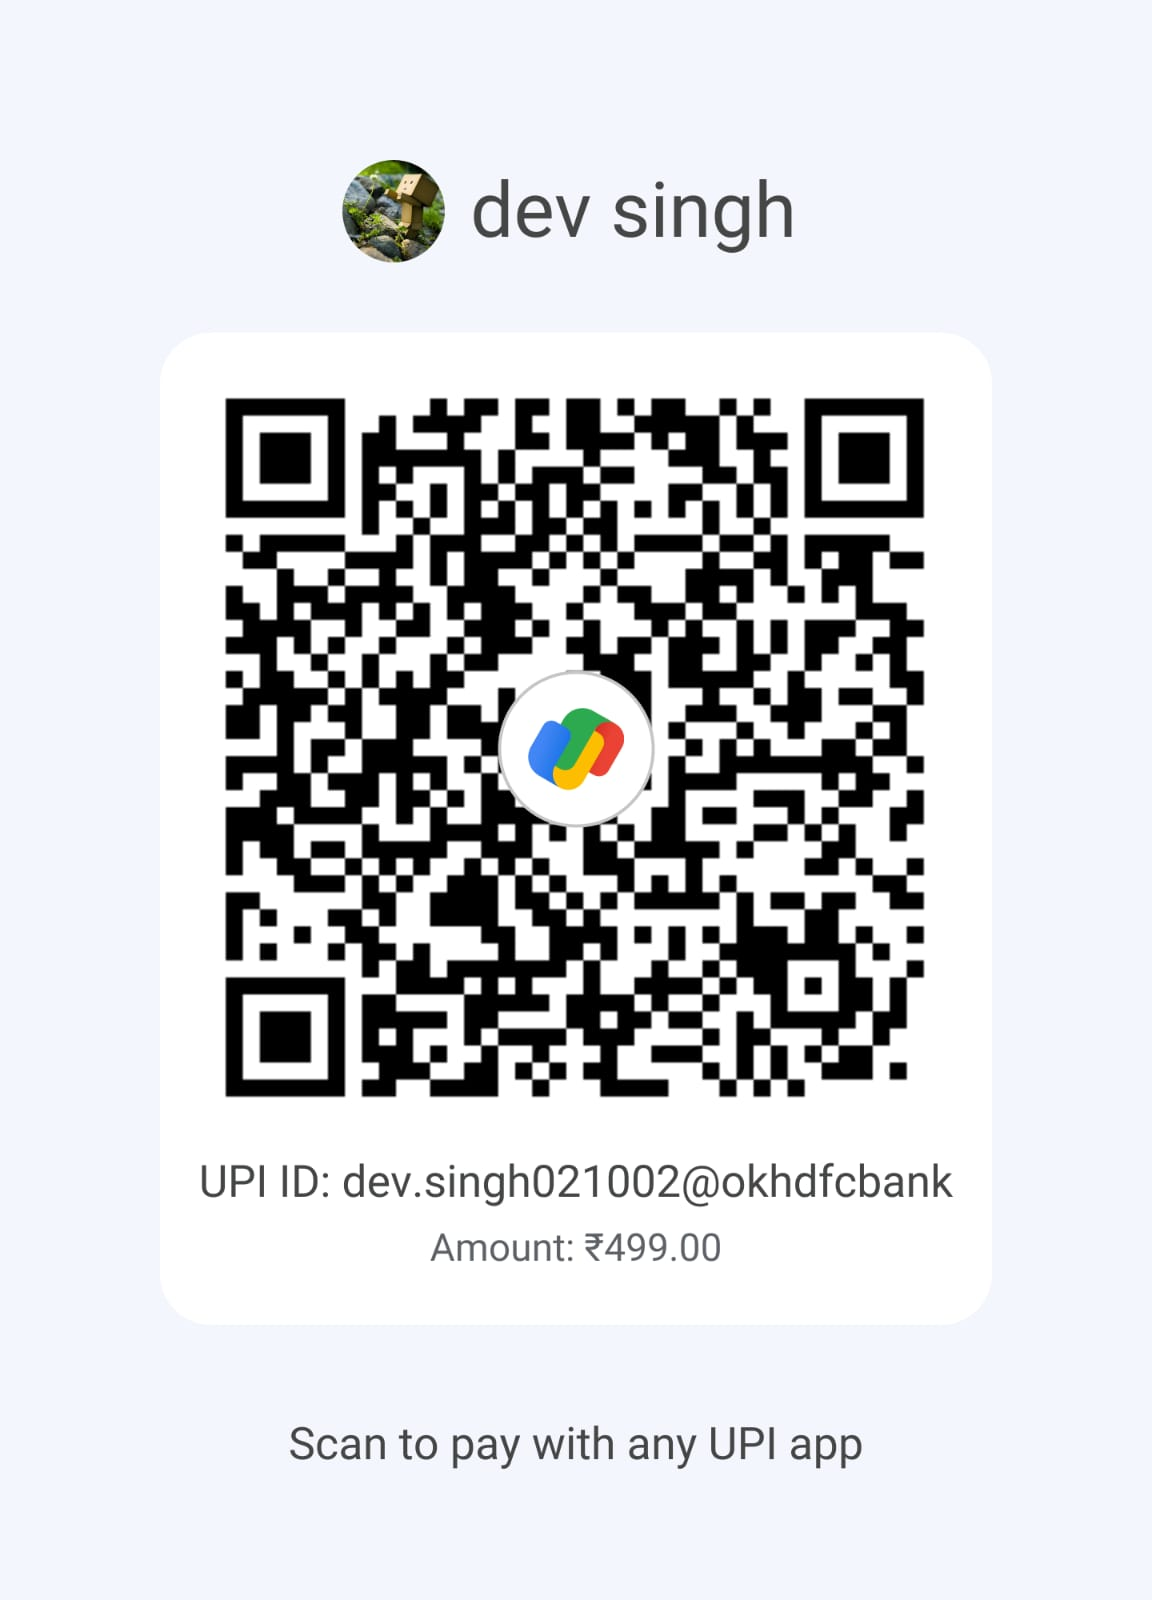
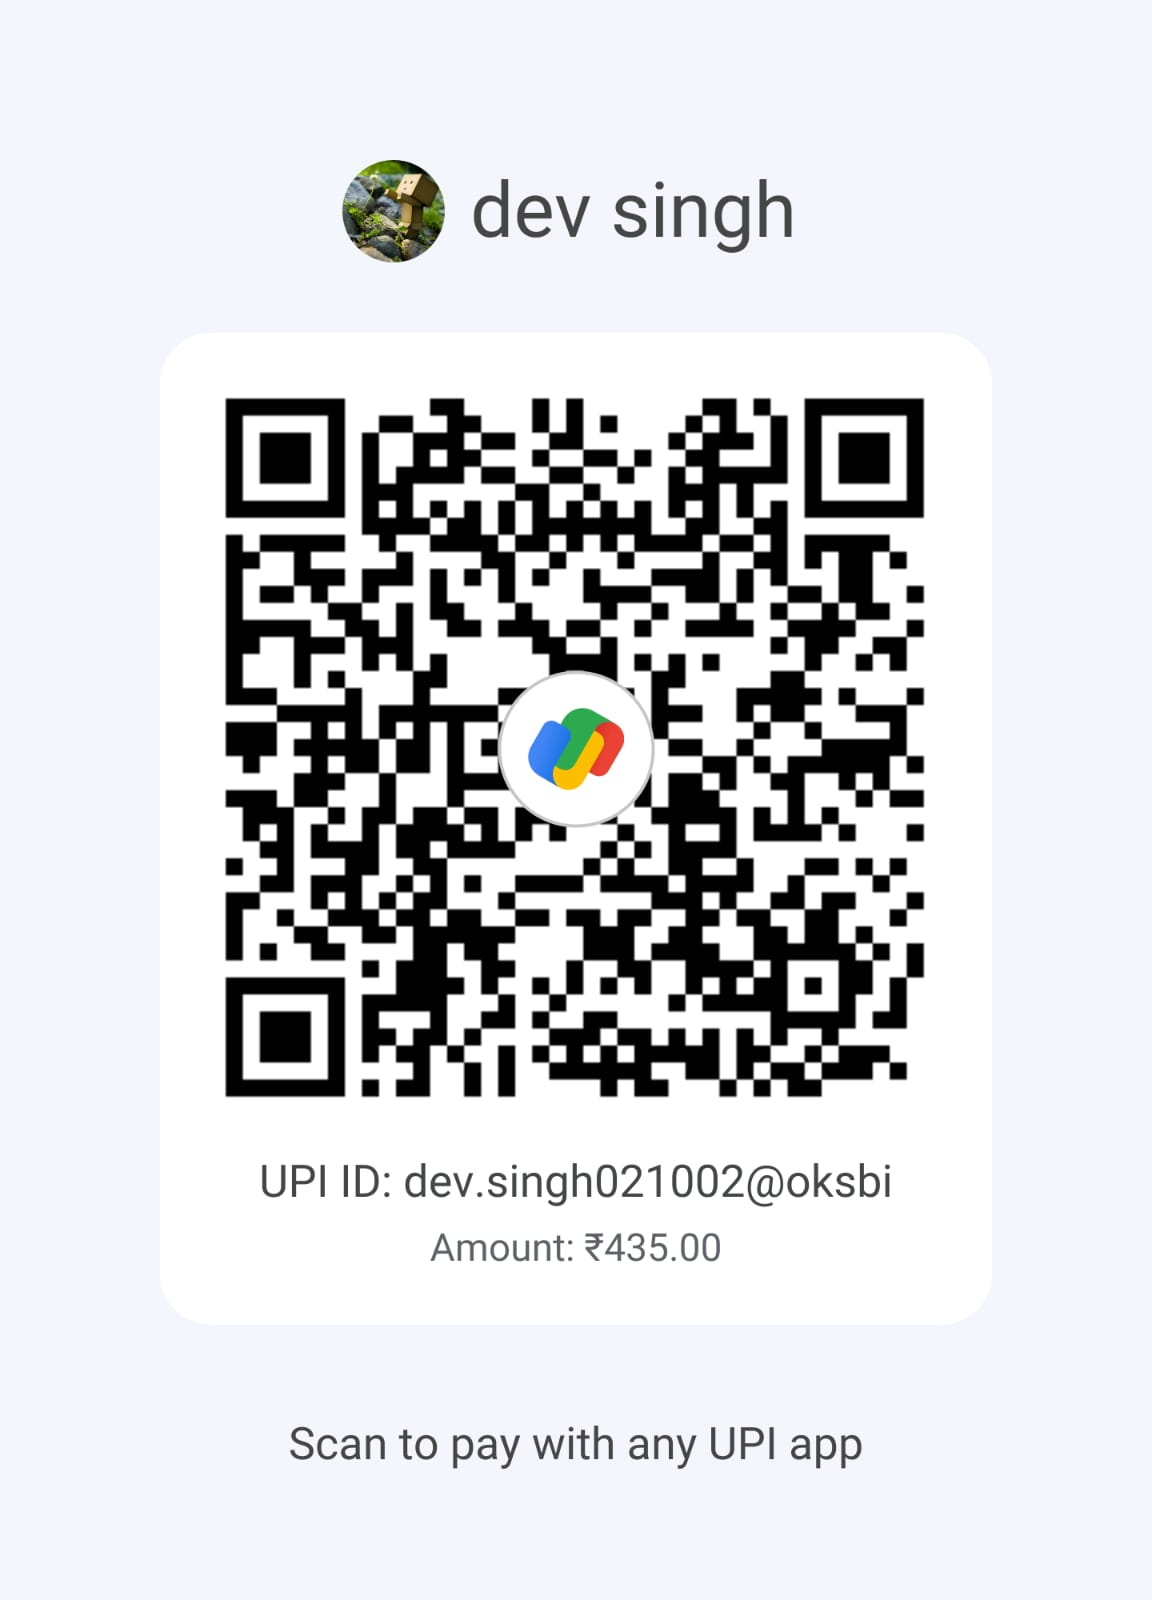
price changed

Changed region(s): [[0.1875, 0.25, 0.8125, 0.6875], [0.1562, 0.7188, 0.8438, 0.7812]]

diff --git a/components/MerchandiseForm.js b/components/MerchandiseForm.js
@@ -66,7 +66,7 @@ const itemDetails = {
     tshirtb: {
         item: 'tshirtb',
         heading: 'Tshirt Boy Print',
-        price: 499,
+        price: 435,
         MRP: 599,
         details: 'Lorem ipsum dolor sit amet, consectetur adipiscing elit.',
         image: '/images/merch/tshirt.JPG',
@@ -75,7 +75,7 @@ const itemDetails = {
     tshirtg: {
         item: 'tshirtg',
         heading: 'Tshirt Girl Print',
-        price: 499,
+        price: 435,
         MRP: 599,
         details: 'Lorem ipsum dolor sit amet, consectetur adipiscing elit.',
         image: '/images/merch/tshirt.JPG',

diff --git a/components/FormTab.js b/components/FormTab.js
@@ -1155,7 +1155,7 @@ document.querySelector("#teamMem")?.remove()
                     <Button
                         variant="contained"
                         color="primary"
-                        onClick={() => handleDownloadQR('/images/eventsqr/eventqr.jpg')}
+                        onClick={() => handleDownloadQR('/images/eventsqr/eventRegistrationfee.jpg')}
                         style={{ marginBottom: '1rem', marginTop: '1rem', border: '10x solid red' }}
                     >
                         Download QR Code

diff --git a/components/TshirtSlider.js b/components/TshirtSlider.js
@@ -7,13 +7,13 @@ const tshirts = [
   {
     itemName: 'tshirtb',
     imageSrc: '/images/merch/boy2.gif',
-    price: '₹499',
+    price: '₹435',
     variant: 'Boy Print'
   },
   {
     itemName: 'tshirtg',
     imageSrc: '/images/merch/girl2.gif',
-    price: '₹499',
+    price: '₹435',
     variant: 'Girl Print'
 
   },
